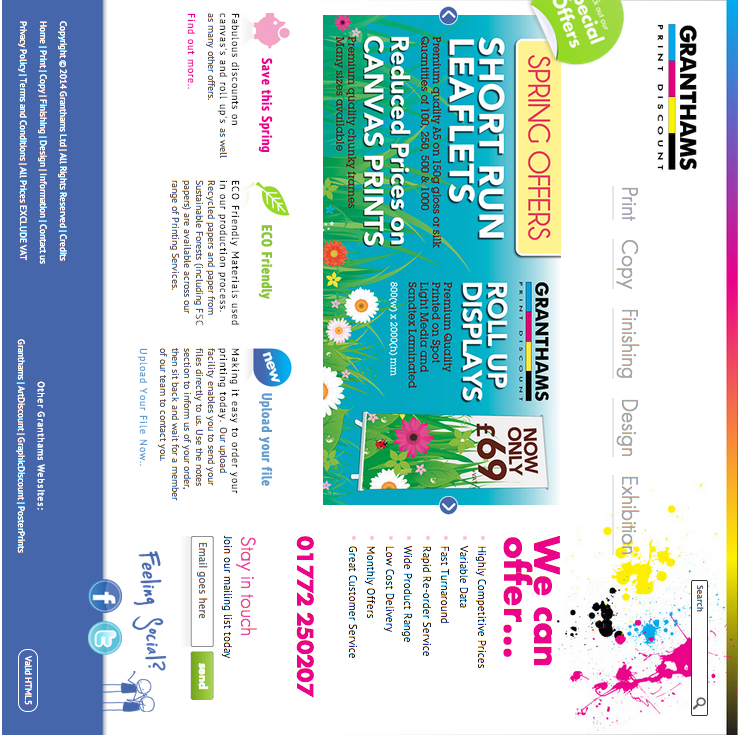
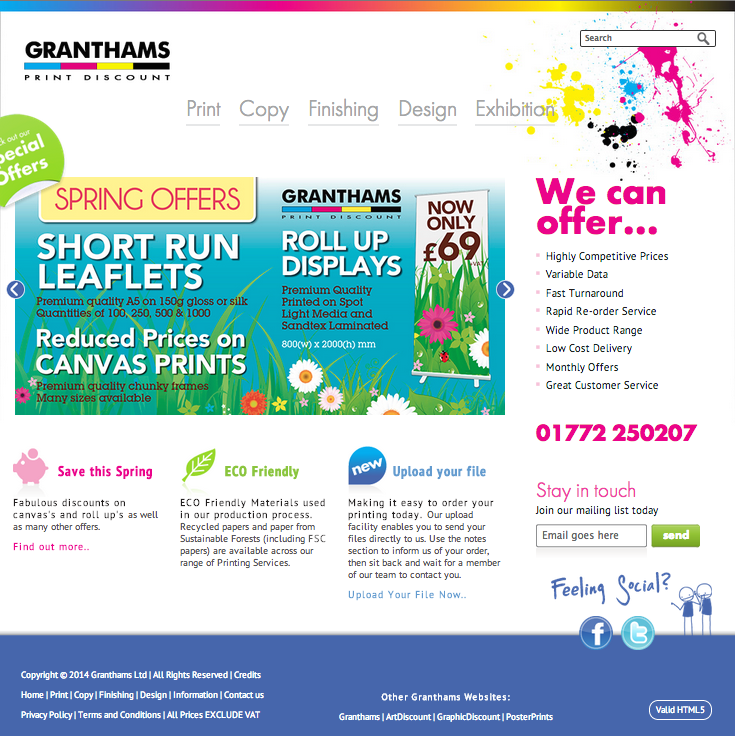
Seccion 1 y 2 terminadas

diff --git a/practica02css/css/estilos.css b/practica02css/css/estilos.css
@@ -1,0 +1,95 @@
+body 
+{
+	/*border: 1px solid red;*/
+	font-size: 16px;
+	margin: 0 auto;
+	max-width: 1078px; /*el diseñador así lo quizo*/
+}
+
+header input 
+{ 
+	float: right;
+	margin-right: -20%;
+	position: relative;
+}
+
+header nav
+{
+	margin-left: 220px;
+}
+
+header nav ul li
+{
+	border-bottom: 1px solid gray;
+	color: gray;
+	display: inline-block;
+	font-size: 1.8em;
+	margin-right: 15px;
+}
+
+#bgoffer
+{
+	left: 20%;
+	/*left,top,bottom,rigth*/
+	position: absolute;
+	top: 150px;
+}
+
+#granthams
+{
+	margin-top: 20px;
+	margin-left: 25px;
+}
+
+#paint 
+{
+	float: right;
+	margin-top: 20px;
+}	
+
+#primerSeccion
+{
+	margin-top: 70px;
+}
+
+#primerSeccion article
+{
+	display: inline-block;
+	margin-left: 25px;
+	vertical-align: top;
+}
+
+#secc01art01
+{
+	width: 60%;
+}
+
+
+#secc01art02
+{
+	width: 30%;
+}
+
+#segundaSeccion article
+{
+	text-align: right;
+}
+
+#terceraSeccion article img
+{
+	vertical-align: middle;
+}
+
+.numerotelefono
+{
+	color: #FF0099;
+	font-size: 2.5em;
+	font-weight: bold;
+}
+
+.wecanoffer
+{
+	color: #FF0099;
+	font-size: 3.5em;
+	font-weight: bold;
+}

diff --git a/practica02css/index.html b/practica02css/index.html
@@ -3,12 +3,13 @@
 <head>
 	<meta charset="UTF-8">
 	<title>Práctica 02 de HTML5 + CSS3</title>
+	<link rel="stylesheet" href="css/estilos.css">
 </head>
 <body>
 	<header>
 		<img src="img/banner.png" alt="">
-		<img src="img/granthams.png" alt="">
-		<img src="img/paint.png" alt="">
+		<img src="img/granthams.png" id="granthams" alt="">
+		<img src="img/paint.png" alt="" id="paint">
 		<input type="search" placeholder="Search" size=25>
 		<nav>
 			<ul>
